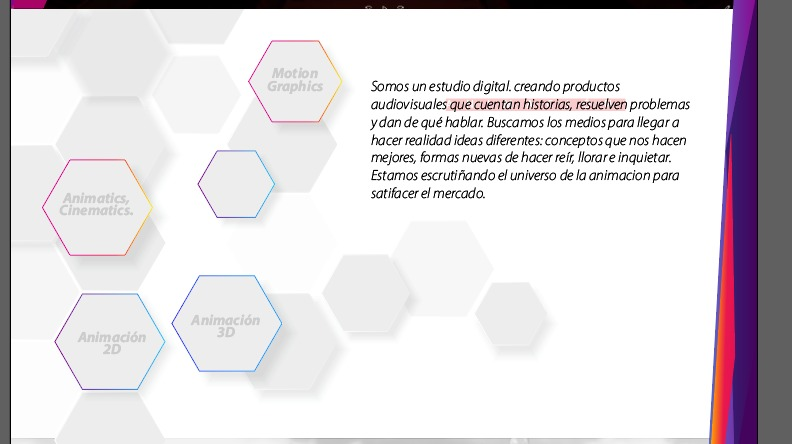
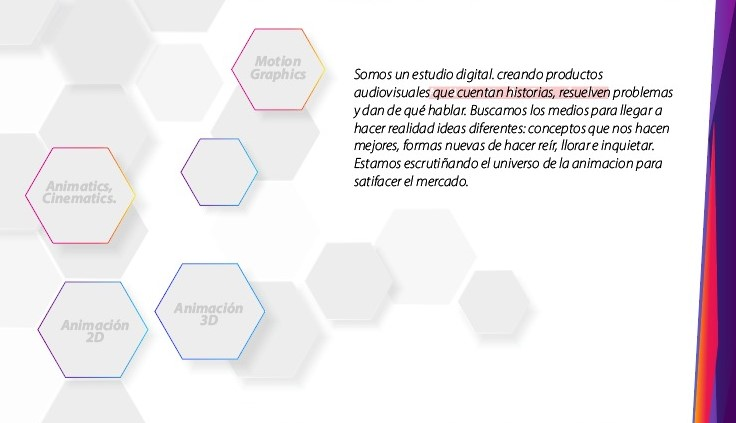
Nosotros casi completo

diff --git a/css/nosotros.css b/css/nosotros.css
@@ -9,8 +9,6 @@
     width: 100%;
     height: 100vh;
     display: flex;
-    background: linear-gradient(-180deg, #BCC5CE 0%, #929EAD 98%), radial-gradient(at top left, rgba(255,255,255,0.30) 0%, rgba(0,0,0,0.30) 100%);
-    background-blend-mode: screen;
 }
 .fondo-nosotros {
     width: 100%;
@@ -18,7 +16,11 @@
     position: absolute;
     top: 0;
     left: 0;
-    background: rgba(137, 87, 87, 0.4);
+}
+.fondo-nosotros img {
+    width: 100%;
+    height: 100%;
+    opacity: 0.6;
 }
 .content-nosotros {
     width: 100%;
@@ -37,16 +39,234 @@
     display: flex;
     flex-direction: column;
     align-items: center;
+    justify-content: space-evenly;
+    /* background: rgba(255, 255, 255,0.2); */
+}
+.image-nosotros img {
+    cursor: pointer;
+}
+.graphics {
+    width: 100%;
+    height: 25%;
+    display: flex;
     justify-content: center;
-    background: coral;
+    transform: translateY(20%);
+}
+.graphics img {
+    height: 100%;
+}
+.cinematics-home {
+    width: 100%;
+    height: 25%;
+    display: flex;
+    padding: 0 1rem;
+}
+.cinematics {
+    width: 50%;
+    height: 100%;
+    display: flex;
+    justify-content: flex-start;
+}
+.home-item {
+    width: 50%;
+    height: 100%;
+    display: flex;
+    justify-content: flex-end;
+}
+.animation-2d-3d {
+    width: 100%;
+    height: 25%;
+    display: flex;
+}
+.animation-2d {
+    width: 50%;
+    height: 100%;
+    transform: translateX(20%);
+    display: flex;
+    justify-content: flex-start;
+}
+.animation-3d {
+    width: 50%;
+    height: 100%;
+    transform: translateX(-20%);
+    display: flex;
+    justify-content: flex-end;
 }
 .text-nosotros {
     width: 100%;
     height: 50%;
     display: flex;
     order: -1;
+    /* background: rgba(51, 45, 47,0.3); */
+}
+.text-description {
+    width: 100%;
+    padding: 1rem;
+    font-size: 2.5vh;
+    text-align: justify;
+    display: flex;
     flex-direction: column;
+    justify-content: space-evenly;
     align-items: center;
-    justify-content: center;
-    background: palevioletred;
+}
+.text-description img{
+    height: 50%;
+    width: 60%;
+}
+
+
+/* responsive */
+
+@media only screen and (min-width:640px ) and (max-width:1024px){
+    .content-nosotros {
+        flex-direction: row;
+    }
+    .image-nosotros {
+        width: 48%;
+        height: 100%;
+        padding: 0 3%;
+    }
+    .graphics {
+        padding: 2%;
+        height: 25%;
+        display: flex;
+        justify-content: flex-end; 
+        align-items: flex-end;
+        transform: none;
+        /* background: rgb(150, 93, 150,0.4); */
+    }
+    .graphics img {
+        height: 90%;
+    }
+    .cinematics-home {
+        padding: 3% 3%;
+        height: 30%;
+        /* background: rgb(100, 193, 150,0.4); */
+    }
+    .cinematics {
+        align-items: flex-end;
+    }
+    .cinematics img {
+        height: 90%;
+    }
+    .home-item {
+        height: 65%;
+        justify-content: flex-start;
+        padding-left: 2%;
+    }
+    .animation-2d-3d {
+        height: 35%;
+        /* background: rgb(150, 93, 50,0.4); */
+    }
+    .animation-2d {
+        width: 42%;
+        padding: 4% 2%;
+        transform: none;
+        /* background: rgb(68, 59, 68,0.4); */
+        justify-content: center;
+    }
+    .animation-2d img {
+        height: 85%;
+    }
+    .animation-3d {
+        width:57%;
+        transform: translateX(2%);
+        /* background: rgb(168, 59, 68,0.4); */
+        justify-content: flex-start;
+        
+    }
+    .animation-3d img {
+        height: 65%;
+    }
+    .text-nosotros {
+        width: 52%;
+        padding: 7% 8% 0 0;
+        height: 100%;
+        order: 1;
+        
+    }
+    .text-description {
+        font-size: 3vh;
+    }
+    .text-description img{
+        height: 50%;
+        width: 80%;
+    } 
+    
+}
+@media only screen and (min-width:1024px){
+    .content-nosotros {
+        flex-direction: row;
+    }
+    .image-nosotros {
+        width: 48%;
+        height: 100%;
+        padding: 0 3%;
+    }
+    .graphics {
+        padding: 2%;
+        height: 25%;
+        display: flex;
+        justify-content: flex-end; 
+        align-items: flex-end;
+        transform: none;
+        /* background: rgb(150, 93, 150,0.4); */
+    }
+    .graphics img {
+        height: 90%;
+    }
+    .cinematics-home {
+        padding: 3% 3%;
+        height: 30%;
+        /* background: rgb(100, 193, 150,0.4); */
+    }
+    .cinematics {
+        align-items: flex-end;
+    }
+    .cinematics img {
+        height: 90%;
+    }
+    .home-item {
+        height: 65%;
+        justify-content: flex-start;
+        padding-left: 2%;
+    }
+    .animation-2d-3d {
+        height: 35%;
+        /* background: rgb(150, 93, 50,0.4); */
+    }
+    .animation-2d {
+        width: 42%;
+        padding: 4% 2%;
+        transform: none;
+        /* background: rgb(68, 59, 68,0.4); */
+        justify-content: center;
+    }
+    .animation-2d img {
+        height: 85%;
+    }
+    .animation-3d {
+        width:57%;
+        transform: translateX(2%);
+        /* background: rgb(168, 59, 68,0.4); */
+        justify-content: flex-start;
+        
+    }
+    .animation-3d img {
+        height: 65%;
+    }
+    .text-nosotros {
+        width: 52%;
+        padding: 7% 8% 0 0;
+        height: 100%;
+        order: 1;
+        
+    }
+    .text-description {
+        font-size: 4vh;
+    }
+    .text-description img{
+        height: 50%;
+        width: 70%;
+    }  
 }

diff --git a/nosotros.html b/nosotros.html
@@ -9,16 +9,47 @@
 </head>
 <body>
     <div class="container-nosotros">
-        <div class="fondo-nosotros"></div>
+        <div class="fondo-nosotros">
+            <!-- <img src="./WhatsApp Image 2021-09-10 at 10.34.22 PM.jpeg" alt=""> -->
+        </div>
         <div class="content-nosotros">
             <div class="image-nosotros">
                 <div class="graphics">
+                    <img src="./assets/2.svg" alt="graphics" onclick="cargarGifs(this)" data-id="1">
+                </div>
+                <div class="cinematics-home">
+                    <div class="cinematics">
+                        <img src="./assets/1.svg" alt="cinematics" onclick="cargarGifs(this)" data-id="2">
+                    </div>
+                    <div class="home-item">
+                        <img src="./assets/3.svg" alt="home-item" onclick="cargarHome()" data-id="3">
+                    </div>
+                    
+                </div>
+                <div class="animation-2d-3d">
+                    <div class="animation-2d">
+                        <img src="./assets/4.svg" alt="animation-2d" onclick="cargarGifs(this)" data-id="4">
+                    </div>
+                    <div class="animation-3d">
+                        <img src="./assets/5.svg" alt="animation-3d" onclick="cargarGifs(this)" data-id="5">
+                    </div>
                     
                 </div>
             </div>
-            <div class="text-nosotros"></div>
+            <div class="text-nosotros">
+                <div class="text-description">
+                    <p>Lorem ipsum dolor sit amet consectetur, adipisicing elit. Officia eum ut laudantium. Reiciendis, repellendus delectus! Autem sint officia perspiciatis pariatur harum commodi, reiciendis eveniet nesciunt nostrum, saepe aspernatur sapiente fuga.</p>
+                </div>
+            </div>
         </div>
 
     </div>
+
+    <template id="template-nosotros">
+        <p></p>
+        <img src="" alt="gif">
+    </template>
+
+    <script src="./js/nosotros.js"></script>
 </body>
 </html>

diff --git a/js/nosotros.js b/js/nosotros.js
@@ -1,0 +1,45 @@
+const textDescription = document.querySelector('.text-description')
+
+const templateNosotros = document.querySelector('#template-nosotros').content;
+const fragment1 = document.createDocumentFragment();
+
+// textDescription.innerHTML = ""
+
+
+// if (textDescription.innerHTML == '') {
+//     textDescription.innerHTML = `<iframe class="video-galery" src="https://player.vimeo.com/video/583627240?title=0&dnt=0&byline=0&playsinline=0" frameborder="0" allow="autoplay"; fullscreen" allowfullscreen></iframe>`
+// }
+
+function cargarGifs(data) {
+    const xhttp = new XMLHttpRequest();
+    xhttp.open('GET', '../nosotros.json',true);
+    xhttp.send();
+    xhttp.onreadystatechange = function () {
+        if(this.readyState==4 && this.status==200){
+            let datos = JSON.parse(this.responseText)
+            console.log(data)
+            var idImagen = data.dataset.id
+            console.log(idImagen)
+            textDescription.innerHTML = "";
+            datos.forEach(item => {
+                if(idImagen == item.id){
+                    // console.log(item)
+                    let description = item.description;
+                    let imagen = item.image
+                    
+                    templateNosotros.querySelector('p').textContent = description
+                    templateNosotros.querySelector('img').setAttribute("src", imagen);
+                    
+                    const clonar = templateNosotros.cloneNode(true);
+                    fragment1.appendChild(clonar);
+                }
+            });
+            textDescription.appendChild(fragment1)
+            
+        }
+    }
+}
+function cargarHome() {
+    textDescription.innerHTML = "";
+    textDescription.innerHTML = `<p>Lorem ipsum dolor sit amet consectetur, adipisicing elit. Officia eum ut laudantium. Reiciendis, repellendus delectus! Autem sint officia perspiciatis pariatur harum commodi, reiciendis eveniet nesciunt nostrum, saepe aspernatur sapiente fuga.</p>`
+}
